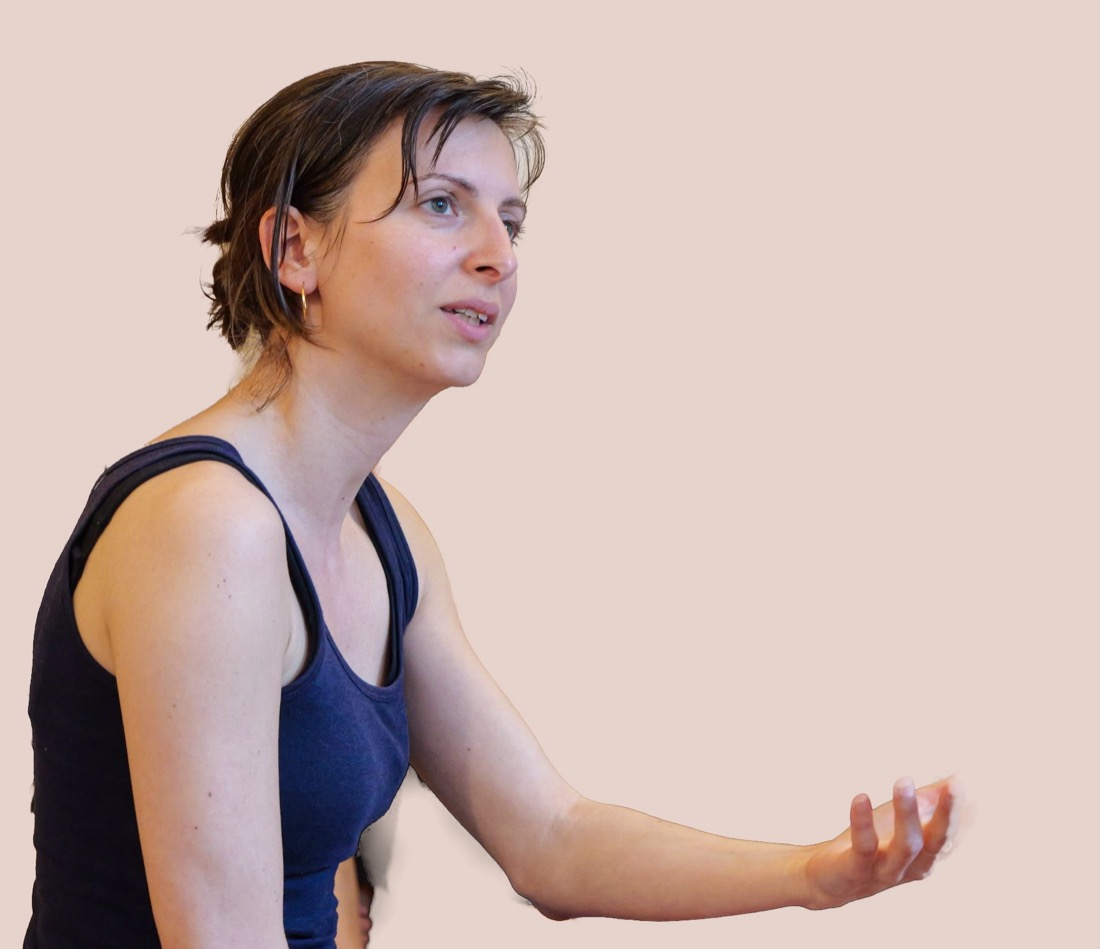
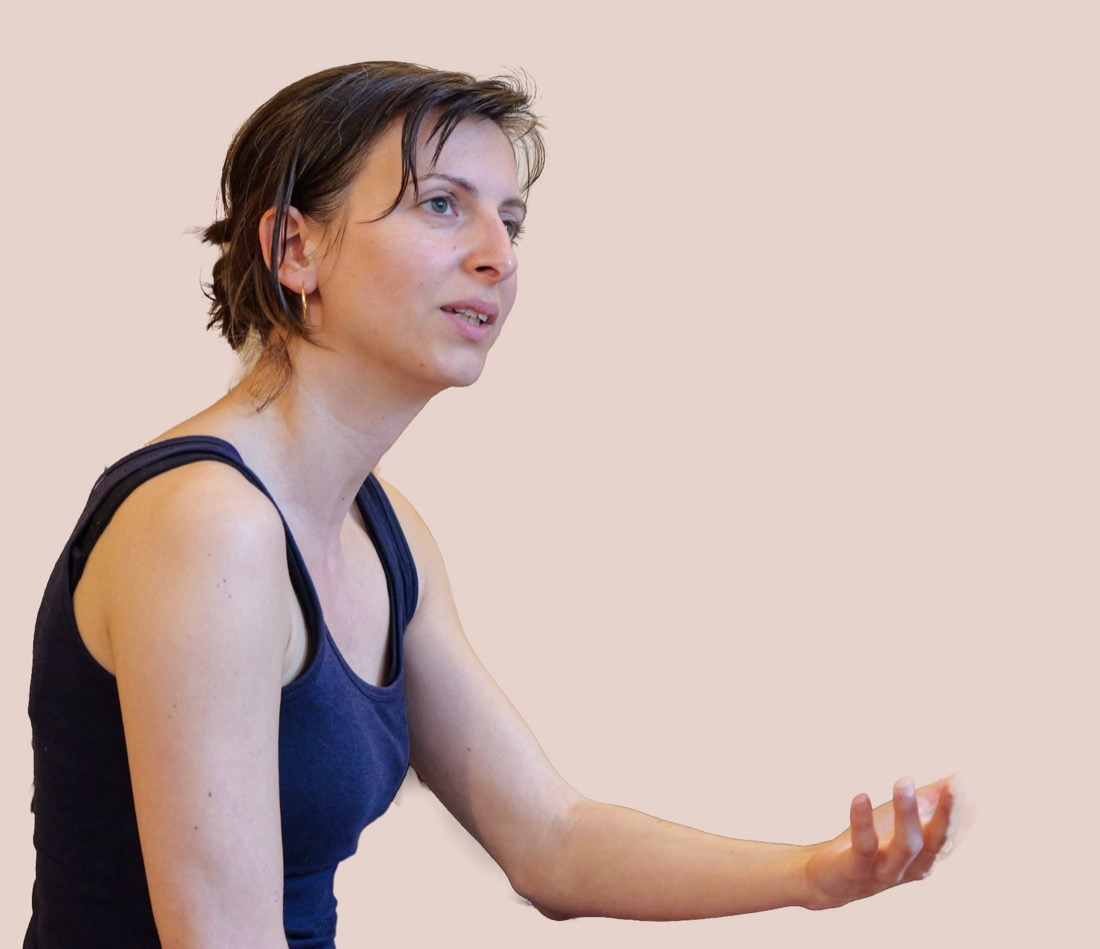
Accueil : détourage de la photo du header corrigé sous le bras

Changed region(s): [[0.2782, 0.8556, 0.3709, 1.0]]

diff --git a/site/index.html b/site/index.html
@@ -44,7 +44,7 @@
         <figure class="hero__visual">
           <span class="circle circle--lilas hero__c1" aria-hidden="true"></span>
           <div class="hero__photo">
-            <img src="/assets/agnes-header.jpg?v=34" alt="Agnès Candiotti en train de parler, la main tendue" width="1100" height="949" fetchpriority="high" />
+            <img src="/assets/agnes-header.jpg?v=35" alt="Agnès Candiotti en train de parler, la main tendue" width="1100" height="949" fetchpriority="high" />
           </div>
           <img class="hero__bulle" src="/assets/bulle-lilas.png" alt="" aria-hidden="true" width="267" height="254" />
         </figure>
